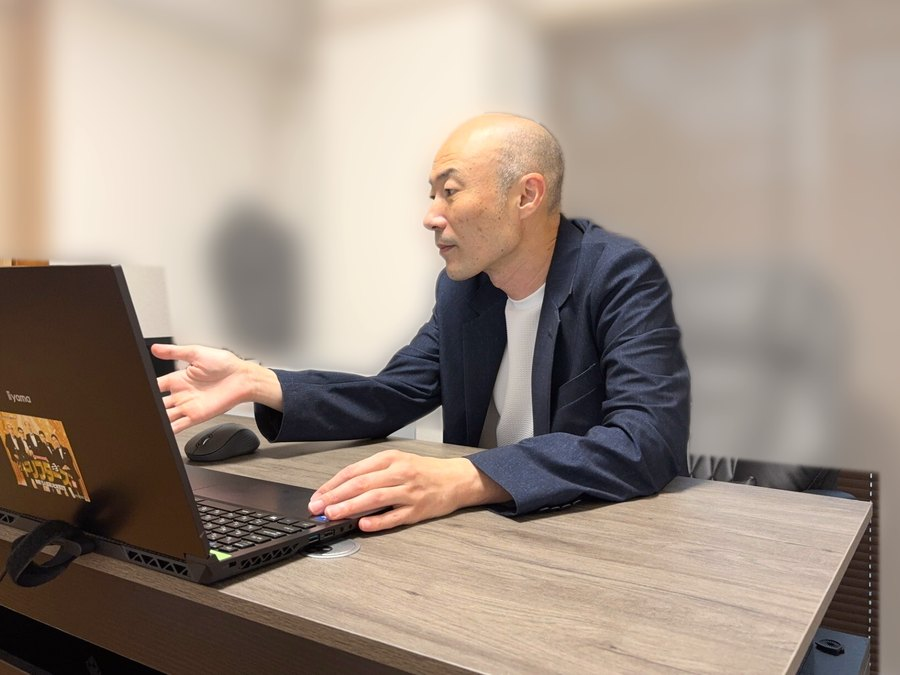
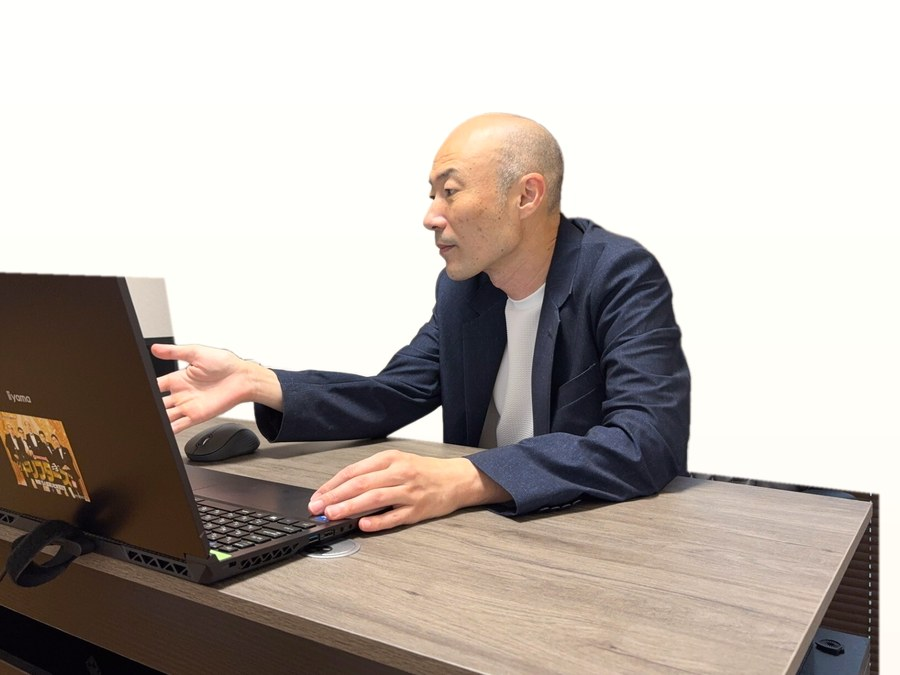
fix: 顧客フィードバック(9/26)を確認用サイトに反映
- 対象者セクションを「たとえば、こんな方に。」に改め、出会いがないことを
  強調しない書き方に変更。例を幅広くし、当てはまらない方も歓迎と明記
- 面談写真の背景をぼかしから白に変更。人物・机・PCは残し部屋のみ除去
- 恋愛ソムリエ認定講座の「ご紹介が必要」を削除しLOVE LIVINGから案内に
- 緑のボタン(メイン・LINE・ヘッダー)を少し大きく
- LCIQ取扱店の説明会を毎月2回と明記
- 本人確認書類にマイナンバーカードを追加
- JBU・NNRはサンマリッジとして加盟している旨を各所に記載
- LCIQ診断は6つの力と総合点が出ることを追記し、総合点の帯を追加

Claude-Session: https://claude.ai/code/session_01QUPAtAqkCesVuMktv1Jmj8

diff --git a/preview/faq.html b/preview/faq.html
@@ -7,7 +7,7 @@
 <a class="hd-logo" href="index.html"><img src="assets/img/logo.png" alt="LOVE LIVING ラブリビング"></a>
 <button class="hd-tgl" onclick="document.querySelector('.hd-nav').classList.toggle('on')">メニュー</button>
 <nav class="hd-nav"><a href="index.html">ホーム</a><a href="about.html">LOVE LIVINGについて</a><a href="flow.html">婚活の流れ</a><a href="lciq.html">恋愛診断・講座</a><a href="price.html">料金プラン</a><a href="faq.html" style="color:var(--c-main);font-weight:500">よくあるご質問</a><a class="hd-cta" href="contact.html">無料相談・お問い合わせ</a></nav>
-</div></header><section class="ph"><div class="wrap"><span class="en">FAQ</span><h1>よくあるご質問</h1></div></section><div class="crumb"><div class="wrap"><a href="index.html">ホーム</a> ／ よくあるご質問</div></div><style>.catnav a{text-decoration:none;font-size:14px;padding:9px 18px;border:1px solid var(--c-line);border-radius:99px;color:var(--c-main);background:var(--c-base);white-space:nowrap}.catnav a:hover{background:var(--c-main);color:#fff}</style><div style="background:#fff;border-bottom:1px solid var(--c-line);padding:18px 0"><div class="wrap"><div class="catnav" style="display:flex;gap:10px;flex-wrap:wrap;justify-content:center"><a href="#cat0">はじめての方へ</a><a href="#cat1">ご入会について</a><a href="#cat2">活動について</a><a href="#cat3">お支払いについて</a></div></div></div><section class="sec" id="cat0"><div class="wrap narrow"><div class="sec-h"><span class="en">First time</span><h2>はじめての方へ</h2><p>婚活を始める前に、よくいただくご質問です。</p></div><details class="faq-item"><summary>結婚相談所を利用するのが初めてで不安です。</summary><div class="faq-a"><span>はじめての方だからこそ、安心してご相談ください。「何から始めればいいのか分からない」というところからで大丈夫です。まずはお話をうかがい、活動の流れやサービスについて分かりやすくご説明します。無理に活動をおすすめすることはありません。</span></div></details><details class="faq-item"><summary>30代・40代から婚活を始めても遅くないですか？</summary><div class="faq-a"><span>恋愛にも結婚にも、早いも遅いもありません。思ったときが、いちばん早いときです。大切なのは、年齢だけで可能性を決めてしまわないこと。これまでのご経験や価値観も大切にしながら、あなたらしい婚活のしかたを一緒に考えていきます。</span></div></details><details class="faq-item"><summary>恋愛経験が少なくても大丈夫でしょうか？</summary><div class="faq-a"><span>もちろん大丈夫です。恋愛経験の多さが、幸せな結婚を決めるわけではありません。お相手との会話、距離の縮め方、交際中のお悩みまで、一つひとつ丁寧にサポートします。そのための恋愛講座もご用意しています。</span></div></details><details class="faq-item"><summary>自分に合う人がどんな人なのか分かりません。</summary><div class="faq-a"><span>そこから一緒に見つけていきましょう。希望条件だけでなく、価値観や性格、どんな結婚生活を送りたいのかを整理していくと、本当に大切にしたいものが見えてきます。LCIQ恋愛診断も使いながらご自身への理解が深まると、希望条件そのものが変わり、出会う方も変わっていきます。</span></div></details><details class="faq-item"><summary>仕事が忙しくても活動できますか？</summary><div class="faq-a"><span>ご自身の生活に合わせて活動していただけます。婚活のために無理をして生活を変えるのではなく、お仕事やプライベートとのバランスを見ながら、続けやすい進め方をご提案します。お相手も同じように時間の合間で活動されていますので、そこが合うかどうかも大事な基準です。</span></div></details><details class="faq-item"><summary>お見合いや初対面の方との会話が苦手です。</summary><div class="faq-a"><span>一人で悩まず、一緒に準備していきましょう。服装や身だしなみ、会話のポイント、お相手への接し方まで、事前にご相談いただけます。「何を話したらいいの？」という小さな不安にも、丁寧にお答えします。</span></div></details><details class="faq-item"><summary>無料相談を受けたら、入会しなければいけませんか？</summary><div class="faq-a"><span>いいえ。安心してお話しください。ご相談いただいたからといって、その場でご入会を決めていただく必要はありません。サービス内容や活動のしかたを知っていただいたうえで、「ここなら頑張れそう」と感じていただけたら、そこからご検討ください。</span></div></details><details class="faq-item"><summary>LOVE LIVINGは、他の結婚相談所と何が違いますか？</summary><div class="faq-a"><span>出会いだけでなく、その先の幸せまで大切にしています。お相手を探すだけではなく、LCIQで「自分を知ること」から始めます。自分が変わると、出会い方も、交際のしかたも変わります。恋愛講座を取り入れることで婚活そのものを楽しみながら、ご結婚後の新しい生活まで見据えてサポートします。</span></div></details><details class="faq-item"><summary>まず何から始めればいいですか？</summary><div class="faq-a"><span>公式LINEにご登録いただき、無料の恋愛診断を受けてみてください。そのあと無料の初級講座（90分）もございます。もちろん、60分の無料相談からでも構いません。</span></div></details></div></section><section class="sec sec-alt" id="cat1"><div class="wrap narrow"><div class="sec-h"><span class="en">Entry</span><h2>ご入会について</h2><p>条件や必要な書類について。</p></div><details class="faq-item"><summary>何歳から入会できますか？</summary><div class="faq-a"><span>18歳以上の方からご入会いただけます。年齢の上限はありません。ただし、学生の方はご入会いただけません。</span></div></details><details class="faq-item"><summary>収入の条件はありますか？</summary><div class="faq-a"><span>ございません。お仕事をされていない方も、年金で暮らしていらっしゃる方も、ご入会いただけます。お月々のお支払いを続けられるかどうか、それだけご確認させていただいております。</span></div></details><details class="faq-item"><summary>入会にはどんな書類が必要ですか？</summary><div class="faq-a"><span>独身証明書・住民票・本人確認書類・収入証明書・学歴証明書（高専卒以上の方）・資格証明書（お持ちの方）・プロフィール写真をご用意いただきます。取り方が分からない書類は、一つずつご案内しますのでご安心ください。</span></div></details><details class="faq-item"><summary>再婚でも利用できますか？子どもがいても大丈夫ですか？</summary><div class="faq-a"><span>もちろんです。既婚者の方以外であれば、どなたでもご相談いただけます。</span></div></details><details class="faq-item"><summary>東京以外に住んでいても利用できますか？</summary><div class="faq-a"><span>はい。全国どちらにお住まいでもご利用いただけます。ご面談も恋愛講座も、オンラインで承っております。</span></div></details><details class="faq-item"><summary>恋愛講座だけを受けることはできますか？</summary><div class="faq-a"><span>はい、できます。結婚相談所にご入会いただかなくても受講いただけます。既婚の方にも受講いただけます。営業のお仕事に活かされている方もいらっしゃいます。</span></div></details></div></section><section class="sec" id="cat2"><div class="wrap narrow"><div class="sec-h"><span class="en">Activity</span><h2>活動について</h2><p>ご入会後の流れについて。</p></div><details class="faq-item"><summary>入会してからお見合いまで、どのくらいかかりますか？</summary><div class="faq-a"><span>活動のしかたによって変わります。早い方は数日でお申し込みが入ります。ご入金を確認したあとプロフィールを作成し、そこから活動開始となります。</span></div></details><details class="faq-item"><summary>お見合いはどこで行いますか？オンラインでもできますか？</summary><div class="faq-a"><span>ホテルのラウンジやカフェで行うことが多いです。オンラインでのお見合いも可能です。</span></div></details><details class="faq-item"><summary>休会はできますか？条件はありますか？</summary><div class="faq-a"><span>できます。休会中は月額3,300円（税込）をいただいております。</span></div></details><details class="faq-item"><summary>お見合いのお断りは、どう伝えればいいですか？</summary><div class="faq-a"><span>LOVE LIVING からお相手の相談所へお伝えしますので、ご自身で伝えていただく必要はありません。ただし、お見合いの翌日13時までに、必ず当相談所へお返事をいただくルールがございます。</span></div></details><details class="faq-item"><summary>成婚退会したあとも、相談できますか？</summary><div class="faq-a"><span>もちろんです。お電話やメールをいただければ、お返事いたします。</span></div></details></div></section><section class="sec sec-alt" id="cat3"><div class="wrap narrow"><div class="sec-h"><span class="en">Payment</span><h2>お支払いについて</h2><p>料金のお支払い方法について。</p></div><details class="faq-item"><summary>支払い方法を教えてください。分割払いはできますか？</summary><div class="faq-a"><span>現金・銀行振込・口座引き去りに対応しております。分割払いもご相談に応じます（途中でご退会される場合は条件がございます）。月会費は毎月25日の口座振替です。</span></div></details></div></section><section class="sec sec-alt"><div class="wrap narrow"><div class="sec-h"><span class="en">Voice</span><h2>お客様の声</h2></div><div class="voice"><p>有馬さんに担当していただいて本当に良かったと思っています。親身になって話を聞いてくださり、丁寧にサポートしていただいてありがとうございます。一人では悩んでしまうことも、相談できる方がいることで前向きになれました。ありがとうございました！</p><cite>20代 女性</cite></div><p class="trust-note" style="margin-top:26px">ここにないことも、お気軽にお尋ねください。公式LINEからでも承っております。</p></div></section><section class="cta"><div class="wrap">
+</div></header><section class="ph"><div class="wrap"><span class="en">FAQ</span><h1>よくあるご質問</h1></div></section><div class="crumb"><div class="wrap"><a href="index.html">ホーム</a> ／ よくあるご質問</div></div><style>.catnav a{text-decoration:none;font-size:14px;padding:9px 18px;border:1px solid var(--c-line);border-radius:99px;color:var(--c-main);background:var(--c-base);white-space:nowrap}.catnav a:hover{background:var(--c-main);color:#fff}</style><div style="background:#fff;border-bottom:1px solid var(--c-line);padding:18px 0"><div class="wrap"><div class="catnav" style="display:flex;gap:10px;flex-wrap:wrap;justify-content:center"><a href="#cat0">はじめての方へ</a><a href="#cat1">ご入会について</a><a href="#cat2">活動について</a><a href="#cat3">お支払いについて</a></div></div></div><section class="sec" id="cat0"><div class="wrap narrow"><div class="sec-h"><span class="en">First time</span><h2>はじめての方へ</h2><p>婚活を始める前に、よくいただくご質問です。</p></div><details class="faq-item"><summary>結婚相談所を利用するのが初めてで不安です。</summary><div class="faq-a"><span>はじめての方だからこそ、安心してご相談ください。「何から始めればいいのか分からない」というところからで大丈夫です。まずはお話をうかがい、活動の流れやサービスについて分かりやすくご説明します。無理に活動をおすすめすることはありません。</span></div></details><details class="faq-item"><summary>30代・40代から婚活を始めても遅くないですか？</summary><div class="faq-a"><span>恋愛にも結婚にも、早いも遅いもありません。思ったときが、いちばん早いときです。大切なのは、年齢だけで可能性を決めてしまわないこと。これまでのご経験や価値観も大切にしながら、あなたらしい婚活のしかたを一緒に考えていきます。</span></div></details><details class="faq-item"><summary>恋愛経験が少なくても大丈夫でしょうか？</summary><div class="faq-a"><span>もちろん大丈夫です。恋愛経験の多さが、幸せな結婚を決めるわけではありません。お相手との会話、距離の縮め方、交際中のお悩みまで、一つひとつ丁寧にサポートします。そのための恋愛講座もご用意しています。</span></div></details><details class="faq-item"><summary>自分に合う人がどんな人なのか分かりません。</summary><div class="faq-a"><span>そこから一緒に見つけていきましょう。希望条件だけでなく、価値観や性格、どんな結婚生活を送りたいのかを整理していくと、本当に大切にしたいものが見えてきます。LCIQ恋愛診断も使いながらご自身への理解が深まると、希望条件そのものが変わり、出会う方も変わっていきます。</span></div></details><details class="faq-item"><summary>仕事が忙しくても活動できますか？</summary><div class="faq-a"><span>ご自身の生活に合わせて活動していただけます。婚活のために無理をして生活を変えるのではなく、お仕事やプライベートとのバランスを見ながら、続けやすい進め方をご提案します。お相手も同じように時間の合間で活動されていますので、そこが合うかどうかも大事な基準です。</span></div></details><details class="faq-item"><summary>お見合いや初対面の方との会話が苦手です。</summary><div class="faq-a"><span>一人で悩まず、一緒に準備していきましょう。服装や身だしなみ、会話のポイント、お相手への接し方まで、事前にご相談いただけます。「何を話したらいいの？」という小さな不安にも、丁寧にお答えします。</span></div></details><details class="faq-item"><summary>無料相談を受けたら、入会しなければいけませんか？</summary><div class="faq-a"><span>いいえ。安心してお話しください。ご相談いただいたからといって、その場でご入会を決めていただく必要はありません。サービス内容や活動のしかたを知っていただいたうえで、「ここなら頑張れそう」と感じていただけたら、そこからご検討ください。</span></div></details><details class="faq-item"><summary>LOVE LIVINGは、他の結婚相談所と何が違いますか？</summary><div class="faq-a"><span>出会いだけでなく、その先の幸せまで大切にしています。お相手を探すだけではなく、LCIQで「自分を知ること」から始めます。自分が変わると、出会い方も、交際のしかたも変わります。恋愛講座を取り入れることで婚活そのものを楽しみながら、ご結婚後の新しい生活まで見据えてサポートします。</span></div></details><details class="faq-item"><summary>まず何から始めればいいですか？</summary><div class="faq-a"><span>公式LINEにご登録いただき、無料の恋愛診断を受けてみてください。そのあと無料の初級講座（90分）もございます。もちろん、60分の無料相談からでも構いません。</span></div></details></div></section><section class="sec sec-alt" id="cat1"><div class="wrap narrow"><div class="sec-h"><span class="en">Entry</span><h2>ご入会について</h2><p>条件や必要な書類について。</p></div><details class="faq-item"><summary>何歳から入会できますか？</summary><div class="faq-a"><span>18歳以上の方からご入会いただけます。年齢の上限はありません。ただし、学生の方はご入会いただけません。</span></div></details><details class="faq-item"><summary>収入の条件はありますか？</summary><div class="faq-a"><span>ございません。お仕事をされていない方も、年金で暮らしていらっしゃる方も、ご入会いただけます。お月々のお支払いを続けられるかどうか、それだけご確認させていただいております。</span></div></details><details class="faq-item"><summary>入会にはどんな書類が必要ですか？</summary><div class="faq-a"><span>独身証明書・住民票・本人確認書類（運転免許証・マイナンバーカードなど）・収入証明書・学歴証明書（高専卒以上の方）・資格証明書（お持ちの方）・プロフィール写真をご用意いただきます。取り方が分からない書類は、一つずつご案内しますのでご安心ください。</span></div></details><details class="faq-item"><summary>再婚でも利用できますか？子どもがいても大丈夫ですか？</summary><div class="faq-a"><span>もちろんです。既婚者の方以外であれば、どなたでもご相談いただけます。</span></div></details><details class="faq-item"><summary>東京以外に住んでいても利用できますか？</summary><div class="faq-a"><span>はい。全国どちらにお住まいでもご利用いただけます。ご面談も恋愛講座も、オンラインで承っております。</span></div></details><details class="faq-item"><summary>恋愛講座だけを受けることはできますか？</summary><div class="faq-a"><span>はい、できます。結婚相談所にご入会いただかなくても受講いただけます。既婚の方にも受講いただけます。営業のお仕事に活かされている方もいらっしゃいます。</span></div></details></div></section><section class="sec" id="cat2"><div class="wrap narrow"><div class="sec-h"><span class="en">Activity</span><h2>活動について</h2><p>ご入会後の流れについて。</p></div><details class="faq-item"><summary>入会してからお見合いまで、どのくらいかかりますか？</summary><div class="faq-a"><span>活動のしかたによって変わります。早い方は数日でお申し込みが入ります。ご入金を確認したあとプロフィールを作成し、そこから活動開始となります。</span></div></details><details class="faq-item"><summary>お見合いはどこで行いますか？オンラインでもできますか？</summary><div class="faq-a"><span>ホテルのラウンジやカフェで行うことが多いです。オンラインでのお見合いも可能です。</span></div></details><details class="faq-item"><summary>休会はできますか？条件はありますか？</summary><div class="faq-a"><span>できます。休会中は月額3,300円（税込）をいただいております。</span></div></details><details class="faq-item"><summary>お見合いのお断りは、どう伝えればいいですか？</summary><div class="faq-a"><span>LOVE LIVING からお相手の相談所へお伝えしますので、ご自身で伝えていただく必要はありません。ただし、お見合いの翌日13時までに、必ず当相談所へお返事をいただくルールがございます。</span></div></details><details class="faq-item"><summary>成婚退会したあとも、相談できますか？</summary><div class="faq-a"><span>もちろんです。お電話やメールをいただければ、お返事いたします。</span></div></details></div></section><section class="sec sec-alt" id="cat3"><div class="wrap narrow"><div class="sec-h"><span class="en">Payment</span><h2>お支払いについて</h2><p>料金のお支払い方法について。</p></div><details class="faq-item"><summary>支払い方法を教えてください。分割払いはできますか？</summary><div class="faq-a"><span>現金・銀行振込・口座引き去りに対応しております。分割払いもご相談に応じます（途中でご退会される場合は条件がございます）。月会費は毎月25日の口座振替です。</span></div></details></div></section><section class="sec sec-alt"><div class="wrap narrow"><div class="sec-h"><span class="en">Voice</span><h2>お客様の声</h2></div><div class="voice"><p>有馬さんに担当していただいて本当に良かったと思っています。親身になって話を聞いてくださり、丁寧にサポートしていただいてありがとうございます。一人では悩んでしまうことも、相談できる方がいることで前向きになれました。ありがとうございました！</p><cite>20代 女性</cite></div><p class="trust-note" style="margin-top:26px">ここにないことも、お気軽にお尋ねください。公式LINEからでも承っております。</p></div></section><section class="cta"><div class="wrap">
 <h2>まずは、恋愛診断をどうぞ</h2>
 <p>公式LINEにご登録いただくと、無料の恋愛診断をお受けいただけます。<br>
 自分の恋愛のクセを知るところから、婚活は変わります。ご相談だけでも大丈夫です。</p>

diff --git a/preview/_artifact_index.html b/preview/_artifact_index.html
@@ -25,21 +25,21 @@
 <span class="trust-sep" aria-hidden="true"></span>
 <img class="trust-sub" src="assets/img/jbu.jpg" alt="JBU 全国結婚相談所連盟">
 <img class="trust-sub" src="assets/img/nnr-logo.jpg" alt="NNR 日本仲人連盟">
-</div><p class="trust-note">IBJ（日本結婚相談所連盟）正規加盟店。あわせて JBU（全国結婚相談所連盟）・NNR（日本仲人連盟）にも加盟しています。<br>
+</div><p class="trust-note">IBJ（日本結婚相談所連盟）正規加盟店。あわせて、サンマリッジとして JBU（全国結婚相談所連盟）・NNR（日本仲人連盟）にも加盟しています。<br>
 3つの連盟に加盟しているため、より多くのお相手からお探しいただけます。</p></div></section>
 
 <section class="sec sec-blush"><div class="wrap">
-<div class="sec-h"><span class="en">For you</span><h2>「出会いがない」は、あなたのせいではありません。</h2>
-<p>こんな毎日を送っていませんか。</p></div>
+<div class="sec-h"><span class="en">For you</span><h2>たとえば、こんな方に。</h2>
+<p>婚活を始めるきっかけは、人それぞれです。</p></div>
 <ul class="aru">
-<li>通勤電車と職場の往復だけで、毎日が過ぎていく</li>
-<li>在宅のお仕事で、人と会う機会がほとんどない</li>
-<li>工場や現場にこもりきりで、出会いの場がない</li>
-<li>知り合いが少なく、頼れる人がいない</li>
-<li>まわりの友人は、もうみんな結婚している</li>
-<li>アプリでの出会いに、不安がぬぐえない</li>
+<li>そろそろ結婚を考えたいけれど、何から始めればいいか分からない方</li>
+<li>通勤と職場の往復で、毎日があっという間に過ぎていく方</li>
+<li>在宅や工場・現場のお仕事で、職場の外で人と知り合う機会が少ない方</li>
+<li>知り合いが少なく、気軽に相談できる相手がいない方</li>
+<li>もう一度、パートナーと歩む人生を考えている方</li>
+<li>アプリでの出会いに、少し不安を感じている方</li>
 </ul>
-<p class="aru-close">ひとつでも当てはまったら、ぜひ一度ご相談ください。<br>
+<p class="aru-close">もちろん、どれにも当てはまらない方も大歓迎です。お気軽にご相談ください。<br>
 まわりにこんな方がいらっしゃったら、ご紹介いただけるとうれしいです。</p>
 <p style="text-align:center;margin:0"><a class="btn btn-main" href="contact.html">無料相談を申し込む</a></p>
 </div></section>
@@ -77,7 +77,7 @@
 <p>LCIQ（Love Communication Intelligence Quotient）は、<br>あなたの「恋愛偏差値®」を測る診断です。無料で、どなたでも受けられます。</p></div>
 <div class="cards c3" style="margin-bottom:38px">
 <div class="card"><h3>STEP 1　恋愛診断</h3><p>
-認識力・表現力・共感力・楽転力・魅了力・継続力。6つの力から、あなたの恋愛のクセが見えてきます。</p><p class="free">無料</p></div>
+認識力・表現力・共感力・楽転力・魅了力・継続力。6つの力と総合点から、あなたの恋愛のクセが見えてきます。</p><p class="free">無料</p></div>
 <div class="card"><h3>STEP 2　初級講座</h3><p>
 診断結果の見方をかんたんにご説明します。あわせて、自己紹介術もお伝えします。90分・毎月3回開催。</p><p class="free">無料</p></div>
 <div class="card"><h3>STEP 3　中級・上級講座</h3><p>

diff --git a/preview/index.html b/preview/index.html
@@ -26,21 +26,21 @@
 <span class="trust-sep" aria-hidden="true"></span>
 <img class="trust-sub" src="assets/img/jbu.jpg" alt="JBU 全国結婚相談所連盟">
 <img class="trust-sub" src="assets/img/nnr-logo.jpg" alt="NNR 日本仲人連盟">
-</div><p class="trust-note">IBJ（日本結婚相談所連盟）正規加盟店。あわせて JBU（全国結婚相談所連盟）・NNR（日本仲人連盟）にも加盟しています。<br>
+</div><p class="trust-note">IBJ（日本結婚相談所連盟）正規加盟店。あわせて、サンマリッジとして JBU（全国結婚相談所連盟）・NNR（日本仲人連盟）にも加盟しています。<br>
 3つの連盟に加盟しているため、より多くのお相手からお探しいただけます。</p></div></section>
 
 <section class="sec sec-blush"><div class="wrap">
-<div class="sec-h"><span class="en">For you</span><h2>「出会いがない」は、あなたのせいではありません。</h2>
-<p>こんな毎日を送っていませんか。</p></div>
+<div class="sec-h"><span class="en">For you</span><h2>たとえば、こんな方に。</h2>
+<p>婚活を始めるきっかけは、人それぞれです。</p></div>
 <ul class="aru">
-<li>通勤電車と職場の往復だけで、毎日が過ぎていく</li>
-<li>在宅のお仕事で、人と会う機会がほとんどない</li>
-<li>工場や現場にこもりきりで、出会いの場がない</li>
-<li>知り合いが少なく、頼れる人がいない</li>
-<li>まわりの友人は、もうみんな結婚している</li>
-<li>アプリでの出会いに、不安がぬぐえない</li>
+<li>そろそろ結婚を考えたいけれど、何から始めればいいか分からない方</li>
+<li>通勤と職場の往復で、毎日があっという間に過ぎていく方</li>
+<li>在宅や工場・現場のお仕事で、職場の外で人と知り合う機会が少ない方</li>
+<li>知り合いが少なく、気軽に相談できる相手がいない方</li>
+<li>もう一度、パートナーと歩む人生を考えている方</li>
+<li>アプリでの出会いに、少し不安を感じている方</li>
 </ul>
-<p class="aru-close">ひとつでも当てはまったら、ぜひ一度ご相談ください。<br>
+<p class="aru-close">もちろん、どれにも当てはまらない方も大歓迎です。お気軽にご相談ください。<br>
 まわりにこんな方がいらっしゃったら、ご紹介いただけるとうれしいです。</p>
 <p style="text-align:center;margin:0"><a class="btn btn-main" href="contact.html">無料相談を申し込む</a></p>
 </div></section>
@@ -78,7 +78,7 @@
 <p>LCIQ（Love Communication Intelligence Quotient）は、<br>あなたの「恋愛偏差値®」を測る診断です。無料で、どなたでも受けられます。</p></div>
 <div class="cards c3" style="margin-bottom:38px">
 <div class="card"><h3>STEP 1　恋愛診断</h3><p>
-認識力・表現力・共感力・楽転力・魅了力・継続力。6つの力から、あなたの恋愛のクセが見えてきます。</p><p class="free">無料</p></div>
+認識力・表現力・共感力・楽転力・魅了力・継続力。6つの力と総合点から、あなたの恋愛のクセが見えてきます。</p><p class="free">無料</p></div>
 <div class="card"><h3>STEP 2　初級講座</h3><p>
 診断結果の見方をかんたんにご説明します。あわせて、自己紹介術もお伝えします。90分・毎月3回開催。</p><p class="free">無料</p></div>
 <div class="card"><h3>STEP 3　中級・上級講座</h3><p>

diff --git a/preview/lciq.html b/preview/lciq.html
@@ -13,7 +13,7 @@
 <p>Love Communication Intelligence Quotient</p></div>
 <p class="lead">婚活がうまくいかないとき、原因は「出会いの数」ではないことがよくあります。<br>
 自分では気づいていない伝え方のクセや、相手の受け取り方とのずれ。そこに理由があることのほうが多いのです。</p>
-<p class="lead">LCIQ恋愛診断は、あなたの<strong>恋愛偏差値®</strong>を6つの力から見ていきます。</p>
+<p class="lead">LCIQ恋愛診断は、あなたの<strong>恋愛偏差値®</strong>を、6つの力と総合点で見ていきます。</p>
 <div class="cards c3" style="margin:34px 0">
 <div class="card" style="text-align:center;padding:24px 16px"><h3 style="font-size:19px;margin:0">認識力</h3></div>
 <div class="card" style="text-align:center;padding:24px 16px"><h3 style="font-size:19px;margin:0">表現力</h3></div>
@@ -21,6 +21,7 @@
 <div class="card" style="text-align:center;padding:24px 16px"><h3 style="font-size:19px;margin:0">楽転力</h3></div>
 <div class="card" style="text-align:center;padding:24px 16px"><h3 style="font-size:19px;margin:0">魅了力</h3></div>
 <div class="card" style="text-align:center;padding:24px 16px"><h3 style="font-size:19px;margin:0">継続力</h3></div></div>
+<div class="total-score"><span>総合点</span>6つの力をあわせた、あなたの恋愛偏差値®</div>
 <p class="lead">診断は<strong>無料</strong>です。どなたでも受けていただけます。<br>
 まずは公式LINEにご登録のうえ、診断を受けてみてください。</p>
 <div class="qrbox">
@@ -60,7 +61,8 @@
 <p style="margin:10px 0 16px">恋愛の原点を学ぶ講座です。修了すると免許証が発行されます。</p>
 <table class="info" style="font-size:14px"><tr><th style="width:110px">受講料</th><td>11,000円（税込）</td></tr>
 <tr><th>時間</th><td>2時間</td></tr>
-<tr><th>受講条件</th><td>ZOOMのみ／ご紹介が必要です</td></tr></table></div>
+<tr><th>形式</th><td>ZOOMのみ</td></tr>
+<tr><th>お申し込み</th><td>LOVE LIVING からご案内します</td></tr></table></div>
 </div>
 <div class="card" style="margin-top:26px;background:#fff;border-color:var(--c-accent)">
 <h3>既婚の方も、営業のお仕事の方も</h3>
@@ -74,10 +76,10 @@
 <section class="sec"><div class="wrap narrow">
 <div class="sec-h"><span class="en">Partner</span><h2>LCIQ取扱店を募集しています</h2></div>
 <p class="lead">LCIQ恋愛診断を、ご自身のサービスや活動に取り入れてみませんか。<br>
-毎月オンラインで説明会を開催していますので、まずはお気軽にご覧ください。</p>
+毎月2回、オンラインで説明会を開催していますので、まずはお気軽にご覧ください。</p>
 <table class="info" style="margin:24px 0">
 <tr><th>導入費用</th><td>33,000円（税込）</td></tr>
-<tr><th>説明会</th><td>毎月オンライン（ZOOM）で開催</td></tr>
+<tr><th>説明会</th><td>毎月2回、オンライン（ZOOM）で開催</td></tr>
 <tr><th>ご準備いただくこと</th><td>LCIQ恋愛診断を無料で実施いただきます</td></tr></table>
 <p><a class="btn btn-main" href="https://lciq-partner.netlify.app/?name=LOVE%20%20LIVING&person=%E4%BB%A3%E8%A1%A8%E3%80%80%E6%9C%89%E9%A6%AC%E7%A5%90%E5%8F%B8&form=https%3A%2F%2Fforms.gle%2FbSPj1KupnK31gzVN7" target="_blank" rel="noopener">取扱店のご案内を見る</a></p>
 </div></section>

diff --git a/preview/assets/css/style.css b/preview/assets/css/style.css
@@ -38,8 +38,8 @@ a{color:inherit}
 .hd-nav{margin-left:auto;display:flex;align-items:center;gap:22px}
 .hd-nav a{font-size:14px;text-decoration:none;color:var(--c-text);white-space:nowrap}
 .hd-nav a:hover{color:var(--c-main)}
-.hd-cta{background:var(--c-main);color:#fff!important;padding:9px 18px;border-radius:4px;
-  font-size:13.5px;font-weight:500}
+.hd-cta{background:var(--c-main);color:#fff!important;padding:11px 22px;border-radius:4px;
+  font-size:14.5px;font-weight:500}
 .hd-cta:hover{background:var(--c-main-d)}
 .hd-tgl{display:none;margin-left:auto;background:none;border:1px solid var(--c-line);
   border-radius:4px;padding:8px 12px;font-size:13px;cursor:pointer;font-family:var(--sans)}
@@ -66,6 +66,7 @@ a{color:inherit}
   border:1px dashed #D7B9A2;border-radius:4px;padding:14px 22px}
 .btn{display:inline-block;text-decoration:none;padding:15px 30px;border-radius:4px;
   font-size:15px;font-weight:500;transition:.2s}
+.btn-main,.btn-line{padding:17px 36px;font-size:16px}
 .btn-gold{background:var(--c-accent);color:#2A2218}
 .btn-gold:hover{background:#d0b87d}
 .btn-ghost{border:1px solid var(--c-main);color:var(--c-main);background:#fff}
@@ -316,6 +317,12 @@ h3{font-family:var(--serif);font-weight:600;font-size:21px;line-height:1.6;margi
   .ol li{padding-left:50px}
 }
 
+
+/* ---------- lciq total ---------- */
+.total-score{display:flex;align-items:center;justify-content:center;gap:16px;flex-wrap:wrap;
+  margin:-14px 0 34px;padding:18px 20px;border:2px solid var(--c-accent);border-radius:6px;
+  background:#FFFCF6;font-size:15px;color:var(--c-text);text-align:center}
+.total-score span{font-family:var(--serif);font-weight:600;font-size:20px;color:var(--c-accent-d)}
 
 /* ---------- for you (あるある) ---------- */
 .sec-blush{background:linear-gradient(180deg,#FFF9F4,#FDF1EC)}

diff --git a/preview/flow.html b/preview/flow.html
@@ -41,7 +41,7 @@
 <ul class="ul">
 <li><strong>独身証明書</strong>　本籍地の市区町村でお取りいただけます</li>
 <li><strong>住民票</strong></li>
-<li><strong>本人確認書類</strong>　運転免許証・パスポートなど</li>
+<li><strong>本人確認書類</strong>　運転免許証・マイナンバーカード・パスポートなど</li>
 <li><strong>収入証明書</strong>　源泉徴収票・確定申告書など</li>
 <li><strong>学歴証明書</strong>　高専卒以上の方</li>
 <li><strong>資格証明書</strong>　お持ちの方のみ</li>
@@ -52,7 +52,7 @@
 
 <section class="sec sec-alt"><div class="wrap">
 <div class="sec-h"><span class="en">Network</span><h2>3つの連盟から、お相手を探せます</h2>
-<p>LOVE LIVING は IBJ 正規加盟店です。あわせて JBU・NNR にも加盟しています。</p></div>
+<p>LOVE LIVING は IBJ 正規加盟店です。あわせて、サンマリッジとして JBU・NNR にも加盟しています。</p></div>
 <div class="trust-in" style="margin-bottom:26px">
 <a class="trust-main" href="https://www.ibjapan.jp/" target="_blank" rel="noopener"><img src="assets/img/ibj-170.png" alt="IBJ 正規加盟店"></a>
 <img class="trust-sub" src="assets/img/jbu.jpg" alt="JBU 全国結婚相談所連盟">

diff --git a/preview/law.html b/preview/law.html
@@ -17,7 +17,7 @@
 <tr><th>受付時間</th><td>10:00〜22:00（年中無休）</td></tr>
 <tr><th>メールアドレス</th><td>love-living.0616@outlook.com</td></tr>
 <tr><th>サービス内容</th><td>結婚相手紹介サービス（結婚相談所）／恋愛講座・恋愛トレーニング／LCIQ恋愛診断</td></tr>
-<tr><th>加盟団体</th><td>IBJ（日本結婚相談所連盟）正規加盟店／JBU（全国結婚相談所連盟）／NNR（日本仲人連盟）</td></tr>
+<tr><th>加盟団体</th><td>IBJ（日本結婚相談所連盟）正規加盟店<br>JBU（全国結婚相談所連盟）・NNR（日本仲人連盟）　※サンマリッジとして加盟</td></tr>
 <tr><th>料金</th><td><a href="price.html">料金プランのページ</a>をご覧ください。表示価格はすべて税込です。</td></tr>
 <tr><th>料金以外の必要費用</th><td>お見合いの際の飲食代、会場までの交通費等はお客様のご負担となります。<br>
 お見合いのキャンセル料：当日 20,000円（税込）／前日まで 10,000円（税込）</td></tr>
